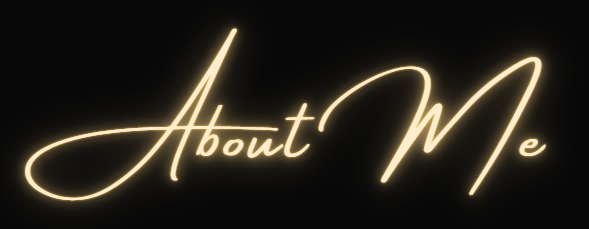
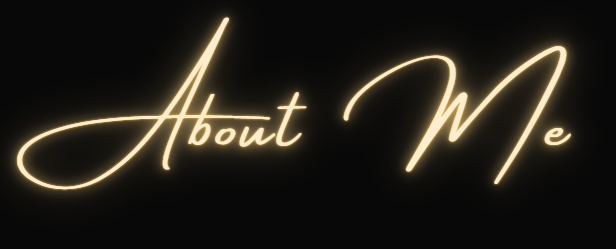
personalized about me page

Changed region(s): [[0.0, 0.0611, 0.9474, 0.917]]

diff --git a/about_me.html b/about_me.html
@@ -65,21 +65,23 @@
 				
 				<!-- Main -->
 					<div id="main">
-						<div class="inner">
-							<span class="symbol_title_pages"><img src="images\about_me_message.png"/></span>
-						</p>Hello! My name is Kousalya Potti. 
-								I believe art is a powerful way to connect with others and share feelings, 
-								even beyond language and culture. Art lets us share experiences, ideas, 
-								and viewpoints in a special way that words can't always do. 
-								This helps us understand and empathize with people from 
-								different backgrounds. </p>
-							</p>For me, art is more than just a hobby; it's how I express myself deeply. 
-							I've grown a lot as an artist, from winning early art competitions to 
-							creating award-winning pieces about mental health, growing up, social 
-							standards, the COVID-19 pandemic, and more. My portfolio has a variety 
-							of multimedia works that show the complexity of our world and the 
-							beauty of life. Take a look at my portfolio and let my art take you 
-							on a journey that is thoughtful, inspiring, and uplifting.</p>
+						<div class="inner about-me-container">
+							<div class="about-text">
+								<span class="symbol_title_pages"><img src="images\about_me_message.png" /></span>
+								<h2>Hello! I'm Kousalya Potti.</h2>
+								<p>
+									I have always believed that art has a unique ability to connect with others beyond language and cultural barriers. It allows us to share emotions, stories, ideas, and experiences in a way that words often can’t. Through art, we gain a deeper understanding of others and empathize with perspectives we might not have encountered before.
+								</p>
+								<p>
+									For me, art is more than just something I enjoy—it’s how I express who I am. Over the years, I’ve grown both as an artist and person, starting with small art competitions and evolving into creating pieces that explore important themes like mental health, the challenges of growing up, societal pressures, and even the impact of the COVID-19 pandemic. My portfolio features a range of multimedia works, each telling its own story about the complexities and beauty of life.
+								</p>
+								<p>
+									I invite you to explore my art and experience the emotions and ideas I’ve poured into each piece. I hope my work sparks something meaningful for you, too.
+								</p>
+							</div>
+							<div class="about-image">
+								<img src="images\about-me.jpg"/>
+							</div>
 						</div>
 					</div>
 

diff --git a/assets/css/main.css b/assets/css/main.css
@@ -163,7 +163,7 @@ input, select, textarea {
 
 	p {
 		margin: 0 0 2em 0;
-		line-height: 0;
+		line-height: 1.6;
 
 	}
 
@@ -2091,6 +2091,25 @@ input, select, textarea {
 			padding: 1em 0 0 1em;
 		}
 
+	/* Footer Icon Styling */
+	#footer .icons a {
+		font-size: 1.5em; /* Increase size of icons */
+		margin: 0 15px; /* Add spacing between icons */
+		color: #ffffff; /* Set icon color */
+		transition: transform 0.3s ease; /* Smooth hover effect */
+	}
+
+	#footer .icons a:hover {
+		transform: scale(1.2); /* Slightly enlarge icons on hover */
+		color: #f39c12; /* Change color on hover */
+	}
+
+	@media (max-width: 768px) {
+		#footer .icons a {
+			font-size: 1em; /* Smaller size for smaller screens */
+		}
+	}	
+
 /* Form */
 
 	form {
@@ -3223,6 +3242,30 @@ input, select, textarea {
 			background-color: #6f6f6f; /* Lighter hover background for dropdown items */
 		}
 				
+/* About Me Page */
+/* Container Styling */
+.about-me-container {
+    display: flex;
+    align-items: center;
+    justify-content: space-between;
+    gap: 40px; /* Adds space between the text and image */
+    padding: 20px;
+}
+
+.about-text {
+    flex: 1; /* Allows the text to take up more space */
+}
+
+.about-image img {
+    width: 270px; /* Adjust the size as needed */
+    height: 270px;
+    border-radius: 50%; /* Makes the image circular */
+    object-fit: cover; /* Ensures proper cropping inside the circle */
+    border: 3px solid #ddd; /* Optional border for aesthetics */
+    box-shadow: 0 4px 6px rgba(0, 0, 0, 0.1); /* Optional shadow for a polished look */
+	margin-top: 150px; /* Pushes the image down slightly */
+
+}
 
 /* Image Pages */
 /* Container Styling */
